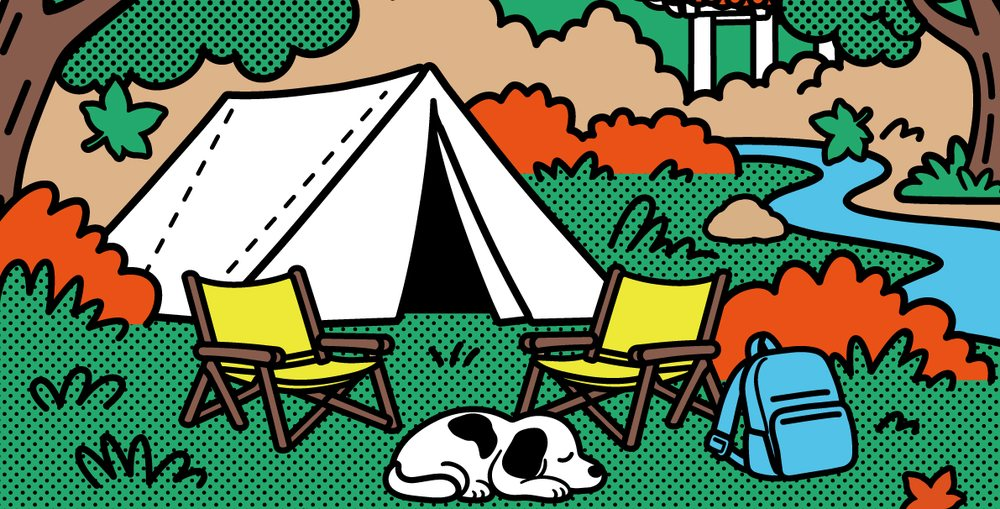
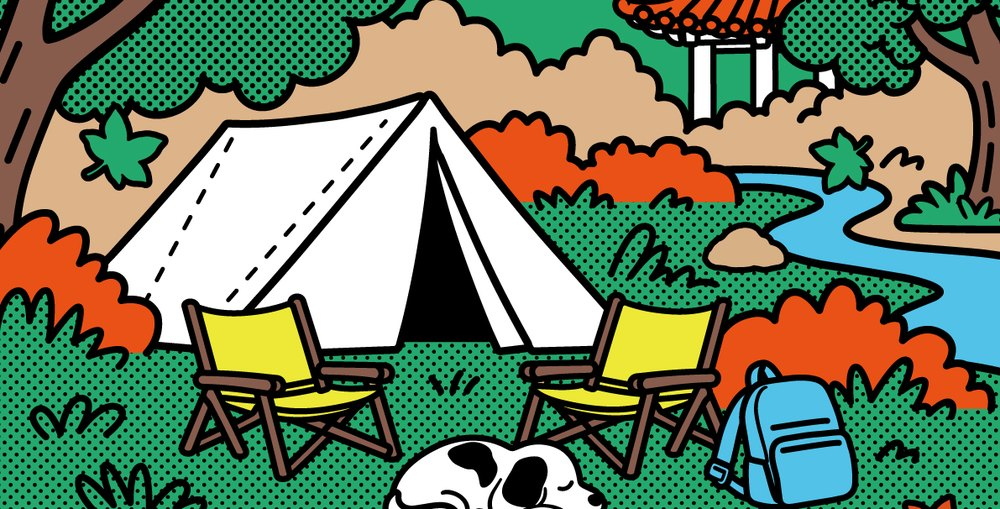
home: 확정 포스터(2026 산사캠프 with 쌍계사)로 교체 — 포스터 원본·덱 카드 2종, 참고용 음악 포스터 제거
Claude-Session: https://claude.ai/code/session_01RWNKczAFUoPqQwLBG1R75N

diff --git a/src/components/home/PhotoDeck.tsx b/src/components/home/PhotoDeck.tsx
@@ -21,7 +21,7 @@ export default function PhotoDeck() {
     const ads: Card[] = banners.map((b) => ({ kind: 'ad', id: b.id, url: b.image, sponsor: b.sponsor, title: b.title, sub: b.sub, link: b.link, bg: b.bg }))
     const events: Card[] = [
       { kind: 'event', id: 'poster', url: '/poster-square.jpg' },
-      { kind: 'event', id: 'poster-music', url: '/banner-music.jpg', full: true },
+      { kind: 'event', id: 'poster-full', url: '/poster-card.jpg', full: true },
     ]
     return best ? [events[0], { kind: 'photo', id: best.id, url: best.url, spot: best.spot_tag, nickname: best.nickname, likes: best.likes_count }, events[1], ...ads] : [...events, ...ads]
   }, [photos, banners])
@@ -117,7 +117,7 @@ export default function PhotoDeck() {
             <div className={`absolute inset-0 bg-gradient-to-b from-black/10 via-black/10 ${c.kind === 'event' && c.full ? 'to-ink/25' : 'to-ink/70'}`} />
             {!(c.kind === 'event' && c.full) && <p className="absolute left-0 right-0 top-2 overflow-hidden whitespace-nowrap px-3 text-[64px] font-extrabold leading-none tracking-[-0.04em] text-white/80">{bigWord}</p>}
             {c.kind === 'event' && c.full ? (
-              <img src={c.url} alt="행사 포스터" draggable={false} className="absolute inset-0 h-full w-full object-cover object-top" />
+              <img src={c.url} alt="2026 산사캠프 with 쌍계사 포스터" draggable={false} className="absolute inset-0 h-full w-full object-cover object-top" />
             ) : (
               <img src={c.url} alt={c.kind === 'photo' ? `${c.spot} 사진` : c.kind === 'ad' ? c.title : '2026 산사캠프 포스터'} draggable={false} className={`absolute left-[8%] right-[8%] top-[28%] w-[84%] rounded-2xl object-cover ring-1 ring-white/30 ${c.kind === 'event' ? 'h-[38%]' : 'h-[52%]'}`} />
             )}
